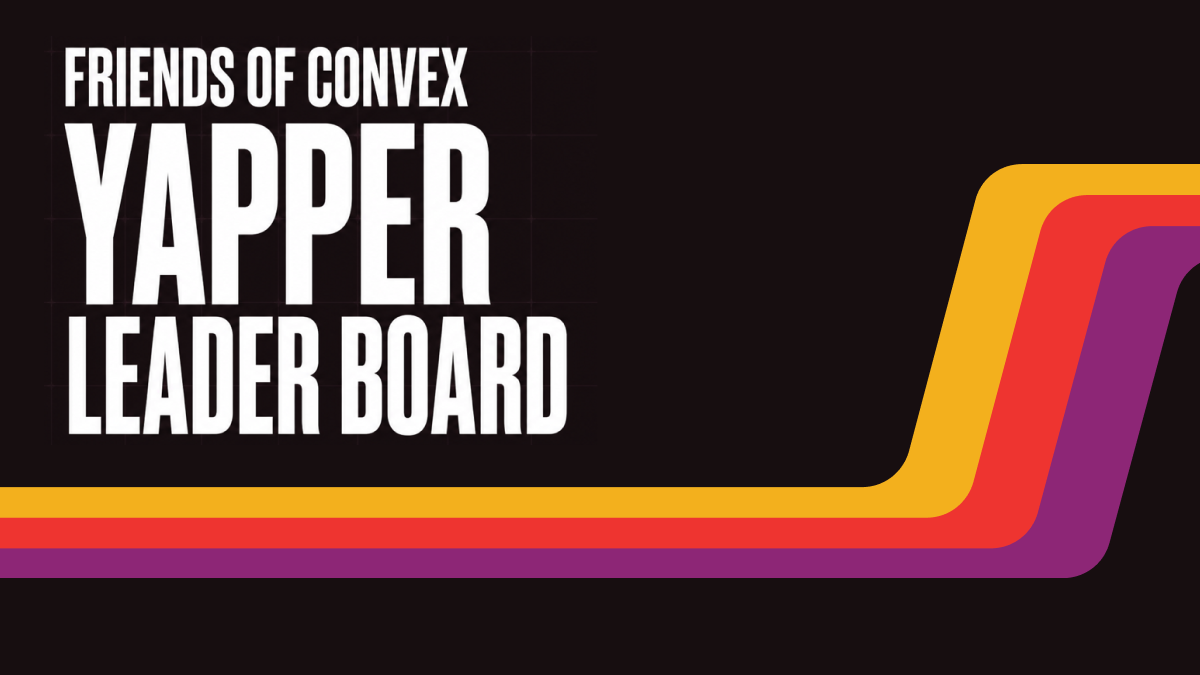
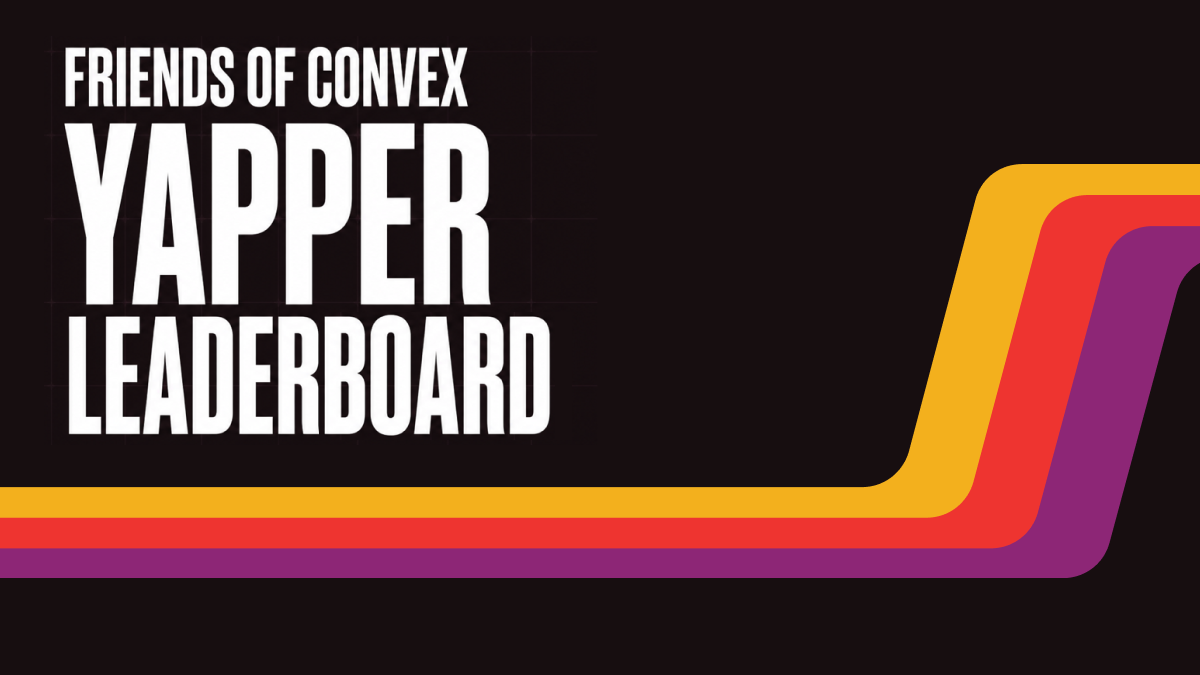
style: make Join the board a contrast button

Changed region(s): [[0.2467, 0.4667, 0.4933, 0.6533]]

diff --git a/src/globals.css b/src/globals.css
@@ -381,6 +381,60 @@ button:disabled {
   transform: translateY(1px);
 }
 
+/* Join the board: the header's only filled control, so it reads as the
+   next step on every page. Ink on paper here, orange in the Convex theme. */
+.nav-cta {
+  min-height: 44px;
+  padding: 0 18px;
+  display: inline-flex;
+  align-items: center;
+  border: 1px solid var(--broadcast-ink);
+  border-radius: 999px;
+  background: var(--broadcast-ink);
+  color: var(--studio-sheet);
+  font-size: 14px;
+  font-weight: 600;
+  text-decoration: none;
+  white-space: nowrap;
+  touch-action: manipulation;
+  transition:
+    background-color 160ms ease,
+    border-color 160ms ease,
+    transform 160ms ease;
+}
+
+.nav-cta:hover {
+  background: var(--broadcast-ink-soft);
+  border-color: var(--broadcast-ink-soft);
+}
+
+.nav-cta:active {
+  transform: translateY(1px);
+}
+
+.nav-cta:focus-visible {
+  outline: 2px solid var(--control-focus);
+  outline-offset: 3px;
+}
+
+.nav-cta-short {
+  display: none;
+}
+
+@media (max-width: 420px) {
+  .nav-cta {
+    padding: 0 16px;
+  }
+
+  .nav-cta-long {
+    display: none;
+  }
+
+  .nav-cta-short {
+    display: inline;
+  }
+}
+
 .leaderboard-page,
 .admin-page,
 .editorial-page {
@@ -5736,6 +5790,22 @@ html[data-theme="convex"] .site-nav a:hover {
 
 html[data-theme="convex"] .site-nav a.active {
   color: #fffaf0;
+}
+
+/* Dark ink on the brand orange: about 5.7:1, where white text is about 3:1. */
+html[data-theme="convex"] .nav-cta {
+  background: #f26b1d;
+  border-color: #f26b1d;
+  color: #211718;
+}
+
+html[data-theme="convex"] .nav-cta:hover {
+  background: #ff8240;
+  border-color: #ff8240;
+}
+
+html[data-theme="convex"] .nav-cta:focus-visible {
+  outline-color: #fffaf0;
 }
 
 html[data-theme="convex"] .admin-tabs a {

diff --git a/src/components/SiteHeader.tsx b/src/components/SiteHeader.tsx
@@ -21,10 +21,7 @@ const ADMIN_LINKS = [
   { to: "/admin/docs", label: "Admin docs" },
 ] as const;
 
-const PUBLIC_LINKS = [
-  { to: "/about", label: "About" },
-  { to: "/join", label: "Join the board" },
-] as const;
+const PUBLIC_LINKS = [{ to: "/about", label: "About" }] as const;
 
 export function SiteHeader() {
   const location = useLocation();
@@ -97,6 +94,14 @@ export function SiteHeader() {
               </NavLink>
             ))}
           </nav>
+        )}
+        {/* The one call to action, so it stays in the header at every width
+            instead of folding into the menu with About. */}
+        {showAdminNav ? null : (
+          <NavLink className="nav-cta" to="/join" end aria-label="Join the board">
+            <span className="nav-cta-long">Join the board</span>
+            <span className="nav-cta-short" aria-hidden="true">Join</span>
+          </NavLink>
         )}
         <ThemeSwitcher />
         {showAdminNav ? null : (

diff --git a/convex/brandingDefaults.ts b/convex/brandingDefaults.ts
@@ -18,7 +18,7 @@ export const DEFAULT_BRANDING: SiteBranding = {
   siteDescription:
     "A people-only, seven-day X leaderboard for the Friends of Convex community.",
   communityName: "Friends of Convex",
-  boardName: "Yapper Leader Board",
+  boardName: "Yapper Leaderboard",
   eyebrowText: "people edition",
   headerTitle: "Friends who yap",
   // null means the header renders the built-in Convex wordmark asset.

diff --git a/changelog.md b/changelog.md
@@ -8,12 +8,14 @@ All notable changes to this project are documented here. The format follows [Kee
 
 - Admins page at `/admin/team` (Admins tab). Search board profiles by name or @handle, or type any X handle or paste an x.com link and press Look up on X, then confirm with Grant admin access. No more hunting for numeric IDs or editing env vars to add a teammate. Every admin is listed with avatar, tier, and who added them. Granted admins have a two step Remove. Nobody can remove themselves. The `ADMIN_X_USER_IDS` env list stays as the owner tier: always admin, shown with a lock, removable only in the Convex dashboard, so nobody can lock the board out from the UI. Grants live in a new `adminGrants` table (cap 50), and every admin check now reads both lists. Access starts on the next request, and an open tab unlocks without a reload. PRD: prds/admin-team-access.md (2026-10-08).
 
-- Post on X and Share now name the top 3 people in the post text, for example "Top yappers right now on the Friends of Convex Yapper Leader Board: @convex_dev @waynesutton @testyapper". The handles come from the same frozen snapshot as the card, so the text and the image always agree regardless of search or sort on screen. Internal groups and any snapshot failure keep the plain text (2026-10-07).
+- Post on X and Share now name the top 3 people in the post text, for example "Top yappers right now on the Friends of Convex Yapper Leaderboard: @convex_dev @waynesutton @testyapper". The handles come from the same frozen snapshot as the card, so the text and the image always agree regardless of search or sort on screen. Internal groups and any snapshot failure keep the plain text (2026-10-07).
 
 - Board snapshot share cards. Post on X and Share now post a `/b/<id>` link whose X card shows the top 5 of the tab you are on: Yappers and groups with rank, name, and handle but no engagement numbers, Convex mentions with mention counts, Legends with crowns and no rank. The card carries an "as of" time from the newest sync. The server builds the snapshot itself and reuses one link until the ranking changes, so repeat posts do not pile up. Internal groups, hidden groups, and tabs turned off in board settings share the plain live link, and Copy link still copies the live board. The card PNG is rendered once with resvg and kept in Convex file storage. Opening a `/b/` link in a browser lands on that tab. `node scripts/preview-board-og.mjs` previews the card locally. PRD: prds/board-snapshot-share-cards.md (2026-10-06).
 
 ### Changed
 
+- Join the board is a filled button in the header instead of a plain text link: ink on paper in the Studio theme, Convex orange with dark text in the Convex theme (5.7:1 contrast, where white on that orange is only 3:1). It stays in the header on phones as a compact "Join" pill next to the theme toggle, so it no longer hides inside the menu. About stays a quiet text link (2026-10-09).
+- "Leaderboard" is one word everywhere. The default board name is now "Yapper Leaderboard", so the homepage headline, page titles, share pages, and Post on X text read "Friends of Convex Yapper Leaderboard". The default social image `public/og-friends-of-convex.png` reads YAPPER LEADERBOARD in the original typeface. No saved branding on dev or prod overrides the name, so the new default shows as soon as it deploys (2026-10-09).
 - Post on X text now names the tab: "Top yappers right now", "Top Convex mentions right now", "Who leads <group> right now", or "The legends of the board, retired undefeated". The X tab opens on click before the snapshot link is ready, so Safari no longer blocks it, and both share buttons show a busy state while the link is made. If the native share sheet is blocked, the link is copied instead (2026-10-06).
 - The gift card and board card share one renderer (`convex/ogArt.ts` for the art, `convex/ogRenderKit.ts` for resvg, fonts, and avatars). Gift cards look the same (2026-10-06).
 - The board header is two rows instead of three. The kicker and every tool share the top row: search, Top N, Copy link, Share, and Post on X. The board pills sit alone right above the table. Search is now an icon that opens into an inline field on click or when you press `/`. It still filters whichever tab is active, shows a live match count, clears on Escape, and folds back on a second Escape or when you click away from an empty field. Shared `?search=` links open with the field already showing. On tablets the share buttons go icon only so everything fits one row. Opening search folds the share buttons to icons at every desktop width, so their labels never wrap. The "How this is measured" link is gone from the board; the header About link and the footer Methodology link already open the same page (2026-10-06).

diff --git a/files.md b/files.md
@@ -100,7 +100,7 @@
 - `src/components/AdminAccessNote.tsx` — Shared admin-only notice with the signed-in admin chip and steps for adding another admin to `ADMIN_X_USER_IDS`.
 - `src/components/ImportPanel.tsx` — Bulk handle and public X List preview and import controls.
 - `src/components/JoinBoard.tsx` — X sign-in, membership request, and review status, with X in-app browser instructions, a mobile stay-in-this-browser hint, and a failed sign-in retry message.
-- `src/components/SiteHeader.tsx` — Wide header with the brandable lockup (custom logo and header title from site settings), public nav links with an active state and a hamburger menu on small screens, and on `/admin` routes the Admin @handle chip, Sign out, and a swipeable second row tab strip of every admin page plus Settings.
+- `src/components/SiteHeader.tsx` — Wide header with the brandable lockup (custom logo and header title from site settings), public nav links with an active state and a hamburger menu on small screens, a filled Join the board button that stays visible at every width, and on `/admin` routes the Admin @handle chip, Sign out, and a swipeable second row tab strip of every admin page plus Settings.
 - `src/components/ThemeSwitcher.tsx` — Icon-only round Convex/Studio theme toggle with persistence and an accessible name.
 - `src/components/BuiltWithFooter.tsx` — Cursor and Convex attribution, the open source board credit with a GitHub mark linking to the repo, `llms.txt` and `sitemap.md` links, and Convex social icons.
 - `src/components/formatters.ts` — Metric, date, and relative sync time formatting helpers.
@@ -176,7 +176,7 @@
 - `postcss.config.mjs` — Tailwind CSS 4 PostCSS integration.
 - `public/og-yapper-board.png` — Generated 1200×630 social preview card.
 - `public/og-yapper-board-convex.png` — Retired 1200×630 dark Convex-themed social preview card with people icons.
-- `public/og-friends-of-convex.png` — Default 1200×630 site social preview: Friends of Convex / Yapper / Leader board with racing stripes. Not the per-recipient share card.
+- `public/og-friends-of-convex.png` — Default 1200×630 site social preview: Friends of Convex / Yapper / Leaderboard with racing stripes. Not the per-recipient share card.
 - `public/background-image-sidebar.svg` — 16:9 (1200×675) card art: solid `#2A1E1D` field with racing stripe lines sweeping along the bottom edge, rising toward the right. Background of both gift cards and the geometry source for the share OG renderer.
 - `public/background-image.svg` and `public/background-image.png` — Dark radial wash from the earlier card design, kept as unused assets.
 - `public/render/resvg.wasm` and `public/render/fonts/inter-500.ttf`, `inter-700.ttf` — Renderer assets the share-image Node action fetches from static hosting.

diff --git a/task.md b/task.md
@@ -12,6 +12,14 @@
 - [ ] Signed in check of `/admin/team`: board search, Look up on X, Grant admin access, then sign in as the new admin in another browser, then Remove. Deploy to production with `npx convex deploy`, then `npm run deploy -- --skip-convex`.
 - [ ] Deploy the board count fix to production (`npx convex deploy`, then `npm run deploy -- --skip-convex`). Expect the hero to read 264 and the admin heading 267 profiles with 264 on the board, 2 legends, 1 off the board. After the next 8:17 AM Pacific sync, every profile has a stored Convex trend and the Convex board stops reading snapshot history.
 
+## Completed — 2026-10-09 22:10 UTC (Join the board button)
+
+- [x] Header Join the board is a filled `.nav-cta` pill: ink in Studio, `#f26b1d` with `#211718` text in the Convex theme (5.7:1). Rendered outside `.site-nav` so it stays visible under 760px, shortened to "Join" under 420px with `aria-label` keeping the full name. Removed from the mobile menu since it is always in the header. `src/components/SiteHeader.tsx`, `src/globals.css`. Checked in the browser on desktop in both themes and at 375px; `npx tsc -b`, eslint, and `npm run build` pass.
+
+## Completed — 2026-10-09 21:18 UTC (leaderboard as one word)
+
+- [x] Default `boardName` is "Yapper Leaderboard" in `convex/brandingDefaults.ts`. `public/og-friends-of-convex.png` closes the gap between LEADER and BOARD (BOARD slid 17px left, original glyphs kept). README alt text, `files.md`, and the current changelog example updated; dated history in older PRDs and changelog entries left as written. Checked dev and prod `siteSettings`: no saved board name overrides the default. Verified with `npx tsc -b` and `npx vitest run` (60 passing). X caches link previews per URL, so old posts keep the old image.
+
 ## Completed — 2026-10-09 20:45 UTC (board counts past 250)
 
 - [x] Prod has 267 profiles (264 on the board, 2 legends, 1 pending), but the admin heading said 250 and the hero 248 because every board read capped at 250 and 16 members were missing from the public board. Shared `BOARD_MAX = 1000` in `convex/boardLimits.ts` for `loadBoardRows`, legends, `listAdmin`, `listTopConvexYappers`, `boardShares`, `siteDirectory`, and the client queries in `Leaderboard.tsx`, `AdminPanel.tsx`, `GiftAdminPanel.tsx`. The admin heading shows on the board, legends, and off the board. `recordSyncSuccess` stores `convexWeeklyChange`, `convexStreak`, `convexPostsStored` on the profile through the new `computeConvexTrend`, and the Convex board reads those, with a history fallback. PRD: prds/board-count-cap.md.

diff --git a/README.md b/README.md
@@ -2,7 +2,7 @@
 
 A people only, seven day X leaderboard for the Friends of Convex community. Post about Convex, climb the board, earn a badge. That is the whole game.
 
-![Friends of Convex Yapper Leader Board](public/og-friends-of-convex.png)
+![Friends of Convex Yapper Leaderboard](public/og-friends-of-convex.png)
 
 Live at [friendsofconvex.dev](https://friendsofconvex.dev). Everything on the board updates in realtime through [Convex](https://convex.dev), so when the daily sync runs, every open browser tab watches the ranks shuffle at the same moment.
 
